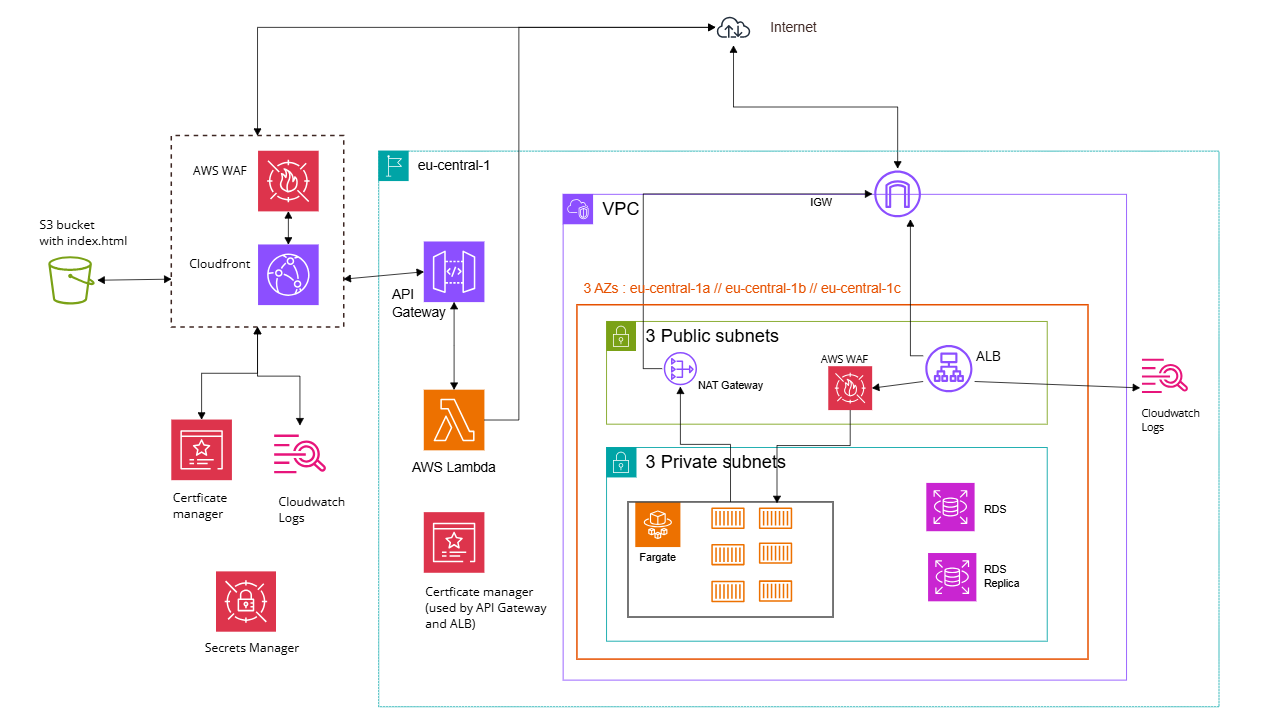
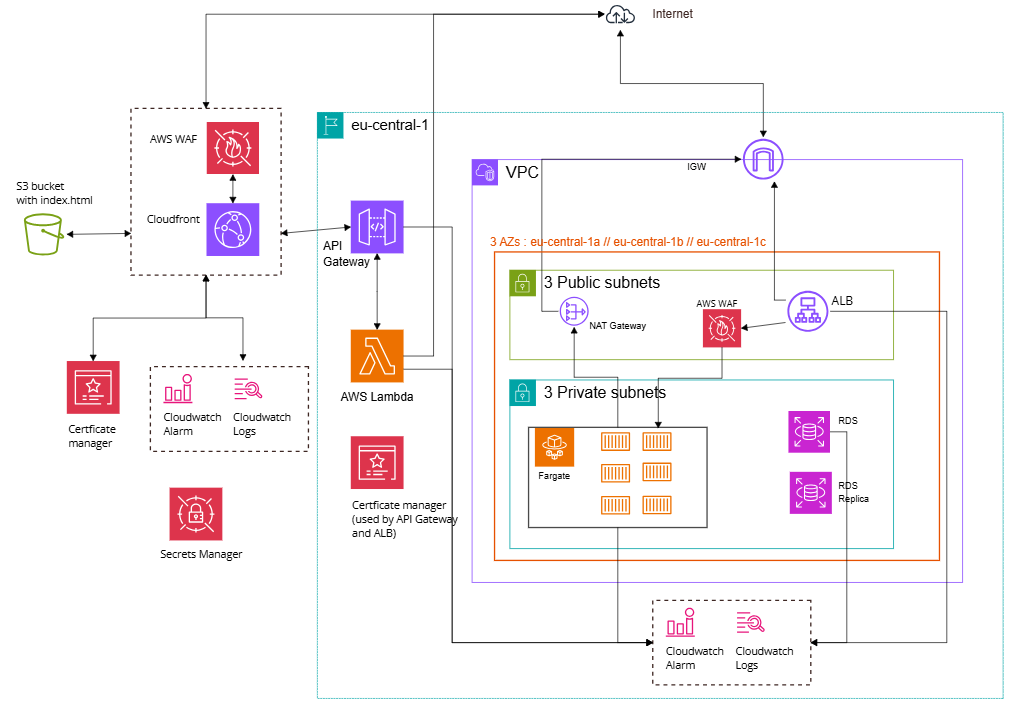
feat: added cloudwatch alarm + sns set up

diff --git a/README.md b/README.md
@@ -59,7 +59,18 @@ The backend is a **Spring Boot application** that serves the Trip Planner Web Ap
 
 **Monitoring**
 - ECS logs are streamed to **AWS CloudWatch Logs** for real-time monitoring and troubleshooting.
-
+- **AWS CloudWatch Alarms + SNS** are set up to monitor :
+  - ECS service :
+     - Alert when ECS CPU utilization exceeds 90% 
+     - Alert when ECS Memory utilization exceeds 90%
+     - Alert when ECS service has unhealthy tasks
+  - RDS database :
+     - Alert when RDS free storage space is low
+     - Alert when DB has CPU utilization of 0% for 5 minutes - RDS is potentially down
+  - ALB :
+     - ALB target group has unhealthy hosts
+     - Alert when ALB has too many 5xx errors
+     - Alert when ALB has high latency (over 2 seconds)
 
 ## 🔍 Gotchas -  Lessons learned ( sometimes the hard way...)
 ### RDS - Database
@@ -119,6 +130,14 @@ Locations API has been created to provide an API endpoint to call for the fronte
 - Managed AWS services like Lambda and API Gateway provide built-in high availability.
 - Error handling and CORS headers are implemented to prevent client-side failures.
 
+**Monitoring**
+- **AWS CloudWatch Alarms + SNS** are set up to monitor :
+  - Api gateway :
+    - Alert when API Gateway 5xx errors spike
+    - Alert when API Gateway latency is high
+  - Lambda function :
+    - Alert when Lambda has errors
+
 ## Env variables and secret API key
 
 **Local development**
@@ -176,25 +195,30 @@ This part of the infrastructure sets up an AWS **CloudFront distribution** to se
 <img src="docs/frontend-diagram.png" alt="trip-planner-frontend-infra">
 
 ## Key Attributes
-### Security
+**Security**
 - S3 bucket blocks all public access.
 - CloudFront Origin Access Control (OAC) ensures only CloudFront can access the S3 bucket.
 - Lambda@Edge uses minimal IAM permissions via `AWSLambdaBasicExecutionRole`.
 - Custom header : `X-Custom-Auth`is injected by CloudFront to securely communicate with `LocationsAPI`.
 
-### Maintainability
+**Maintainability**
 - Lambda@Edge centralizes route handling for SPA, reducing manual S3 configuration.
 - Versioning enabled on S3 allows easy rollback of static assets.
 
-### Scalability
+**Scalability**
 - **CloudFront CDN** caches content globally, reducing latency and improving user experience.
 - Static content served from S3 scales automatically with traffic.
 - Lambda@Edge executes at edge locations, distributing the load worldwide.
 
-### Reliability
+**Reliability**
 - CloudFront + S3 + Lambda@Edge provides high availability and low downtime.
 - HTTPS is enabled with ACM certificates, ensuring secure and reliable access.
 
+**Monitoring**
+- **AWS CloudWatch Alarms + SNS** are set up to monitor :
+  - Cloudfront distribution :
+    - Alert when CloudFront has too many 5xx errors
+  
 ## 🔎 Gotcha - Notes
 - Build the frontend with `npm run build` and sync the `./dist` folder to S3 before deployment.
 - Lambda@Edge must be deployed in `us-east-1`, the only region supporting it.
